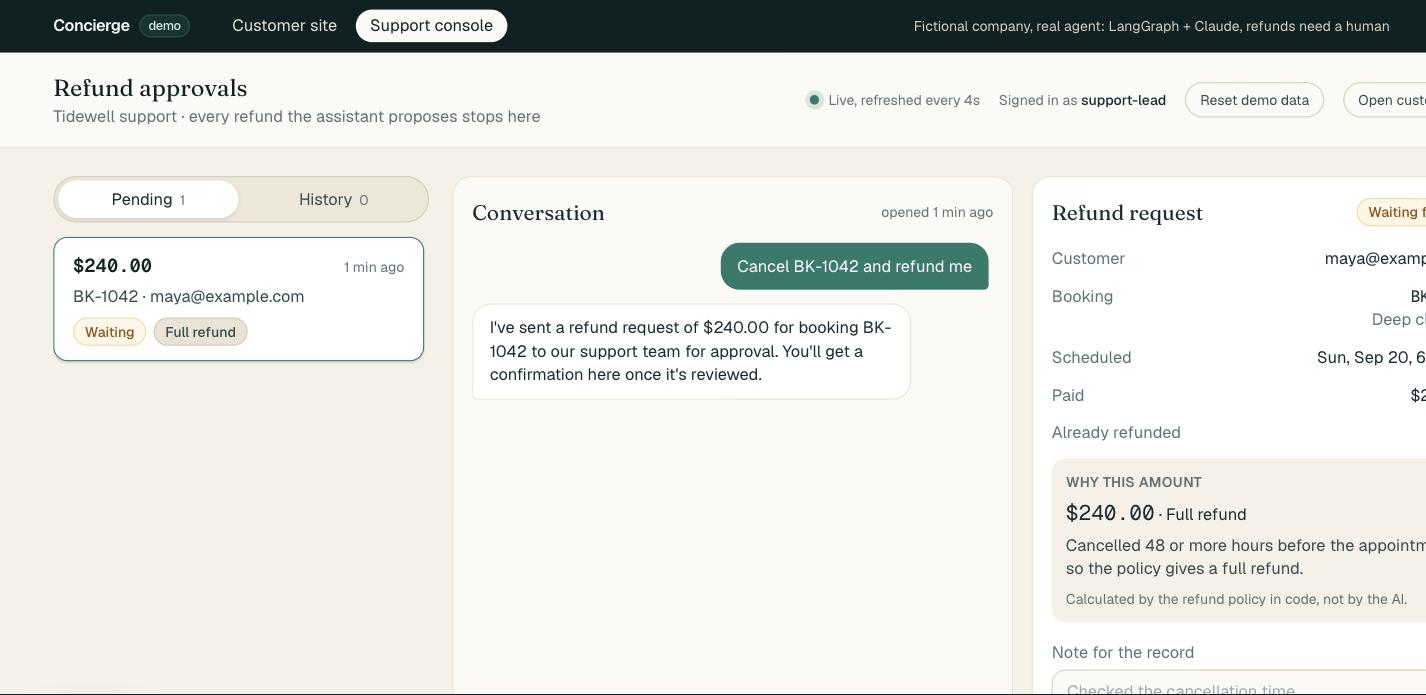
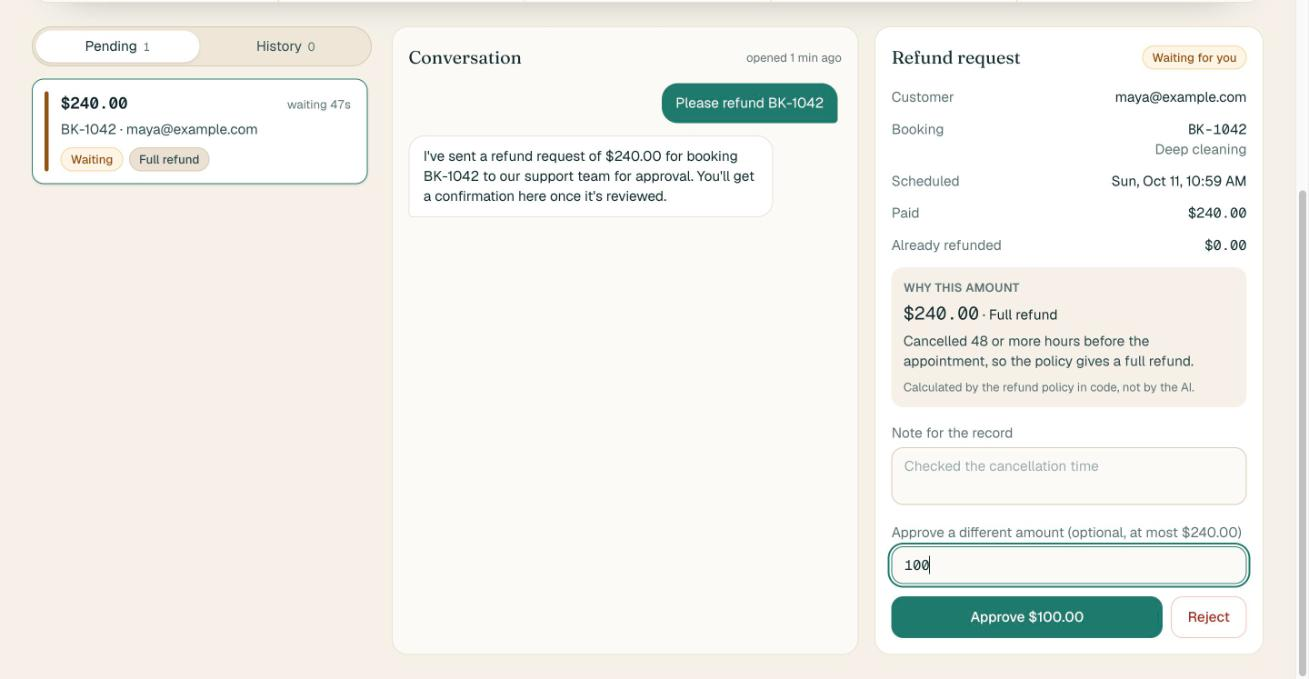
docs: retake the support console screenshot with the lower-amount control
The screenshot in the README and the chat's console preview predated three-way approval. The new capture is from the current console against the real API: the queue, the conversation, the policy reason for the amount, and an optional lower amount reading Approve $100.00.

diff --git a/web/components/customer/chat-widget.tsx b/web/components/customer/chat-widget.tsx
@@ -46,9 +46,9 @@ function OutcomeCard({ item, waiting }: { item: ChatItem; waiting: boolean }) {
           </summary>
           <Image
             src="/console-preview.jpg"
-            alt="The support console showing this refund request, the policy reason for the amount, and Approve and Reject buttons"
-            width={1426}
-            height={695}
+            alt="The support console showing this refund request, the policy reason for the amount, an optional lower amount, and Approve and Reject buttons"
+            width={1309}
+            height={679}
             className="mt-2 h-auto w-full rounded-lg border border-sand-300"
           />
           <p className="mt-1.5 text-ink-500">
